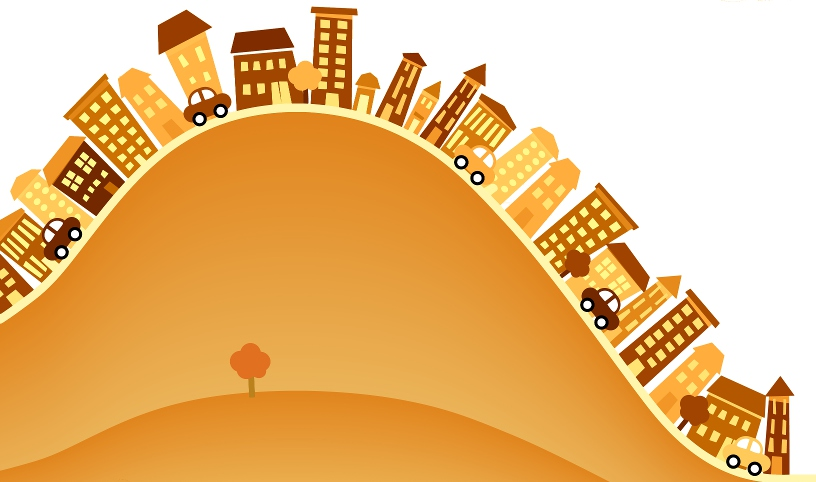
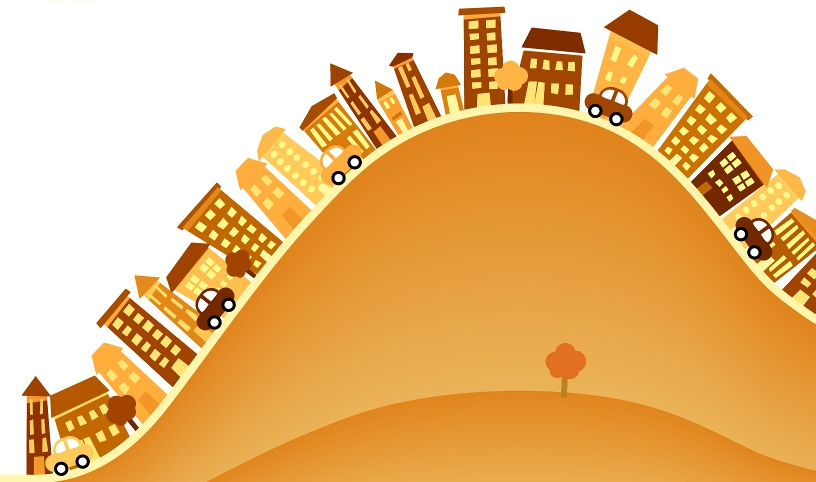
Two home tweaks

diff --git a/two/index.css b/two/index.css
@@ -6,7 +6,8 @@ a {
 	text-decoration: none;
 }
 a:hover {
-	text-decoration: underline;
+	background-color: #333;
+	color: #FFF;
 }
 body,h1 {
 	margin: 0;
@@ -79,7 +80,7 @@ iframe {
 	border: none;
 }
 #one {
-	background: url('footer.jpg') left bottom no-repeat;
+	background: url('footer.jpg') right bottom no-repeat;
 	zbackground-size: 100vw;
 }
 #one>h1 {
@@ -107,9 +108,7 @@ iframe {
 	color: #720;
 }
 #one h2 {
-	float: right;
-	clear: both;
-	margin-right: 5em;
+	margin-bottom: 2em;
 }
 #two {
 }
